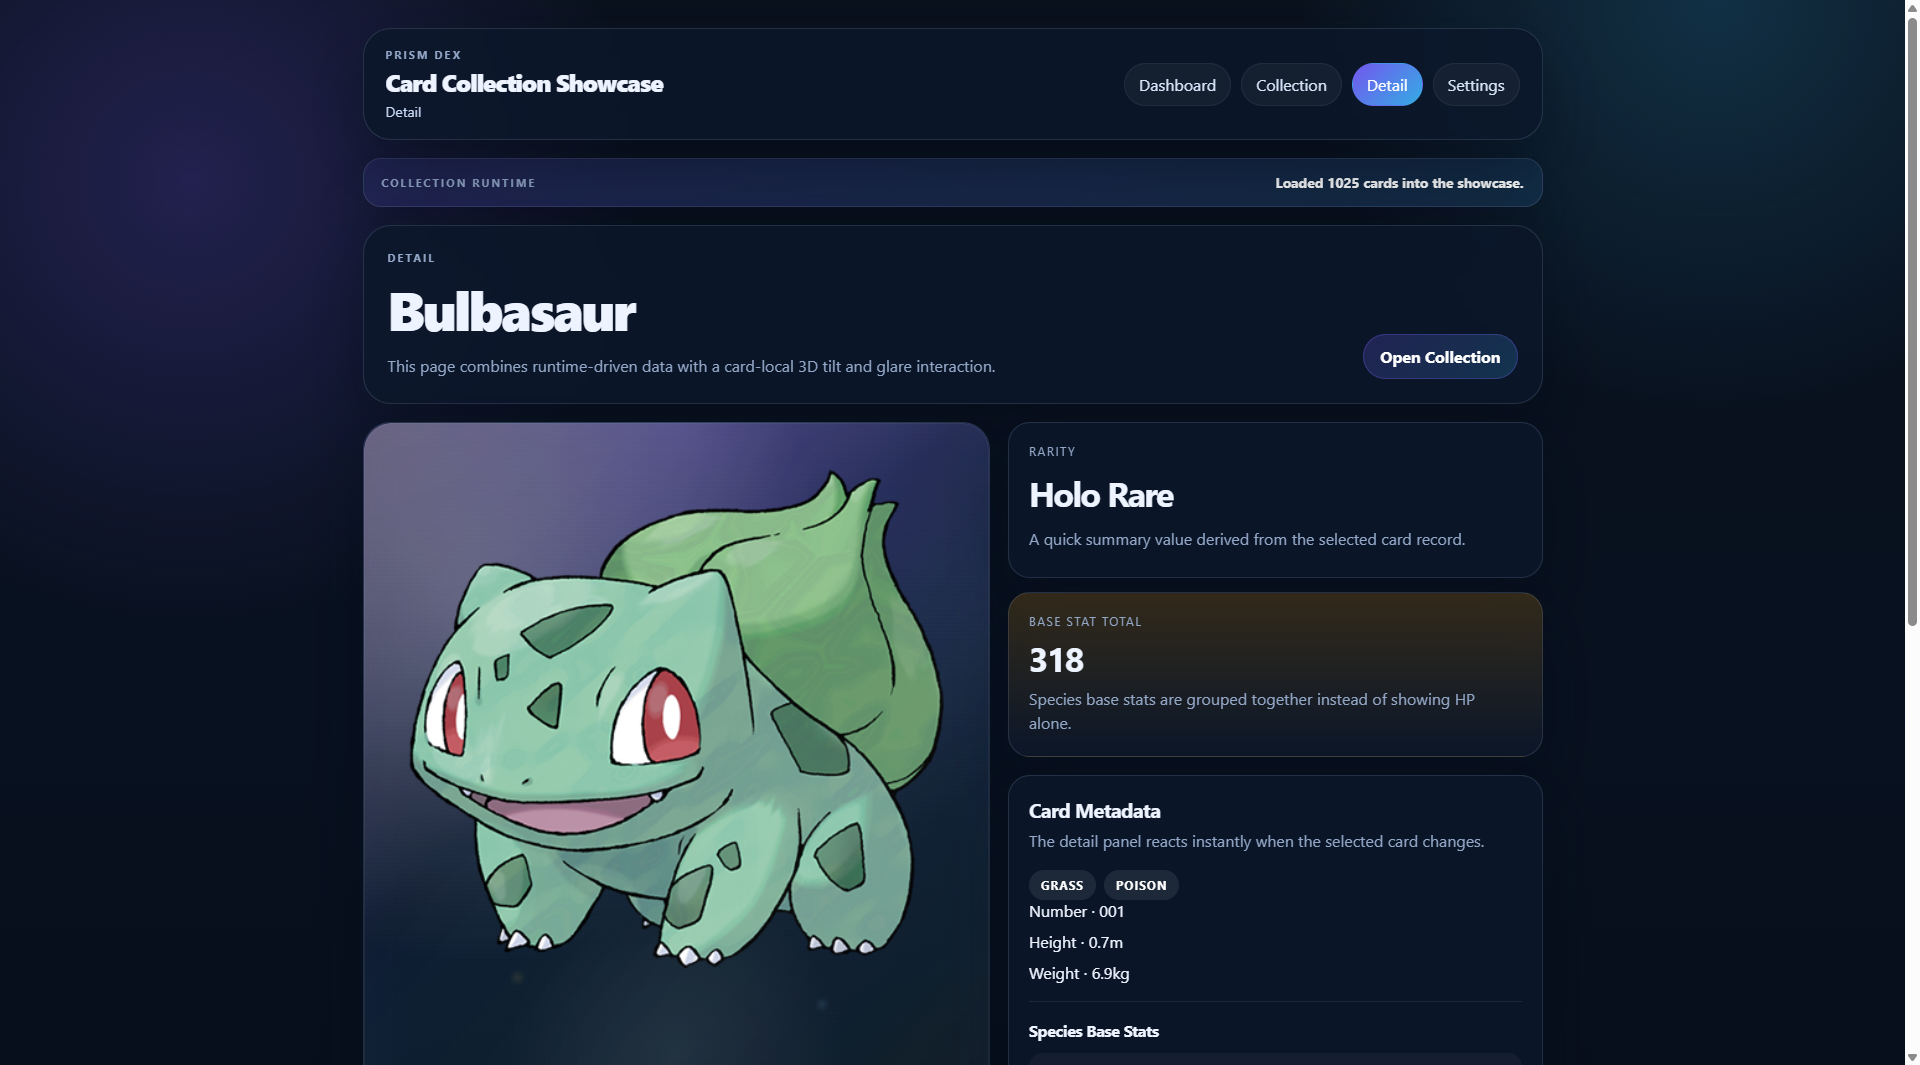
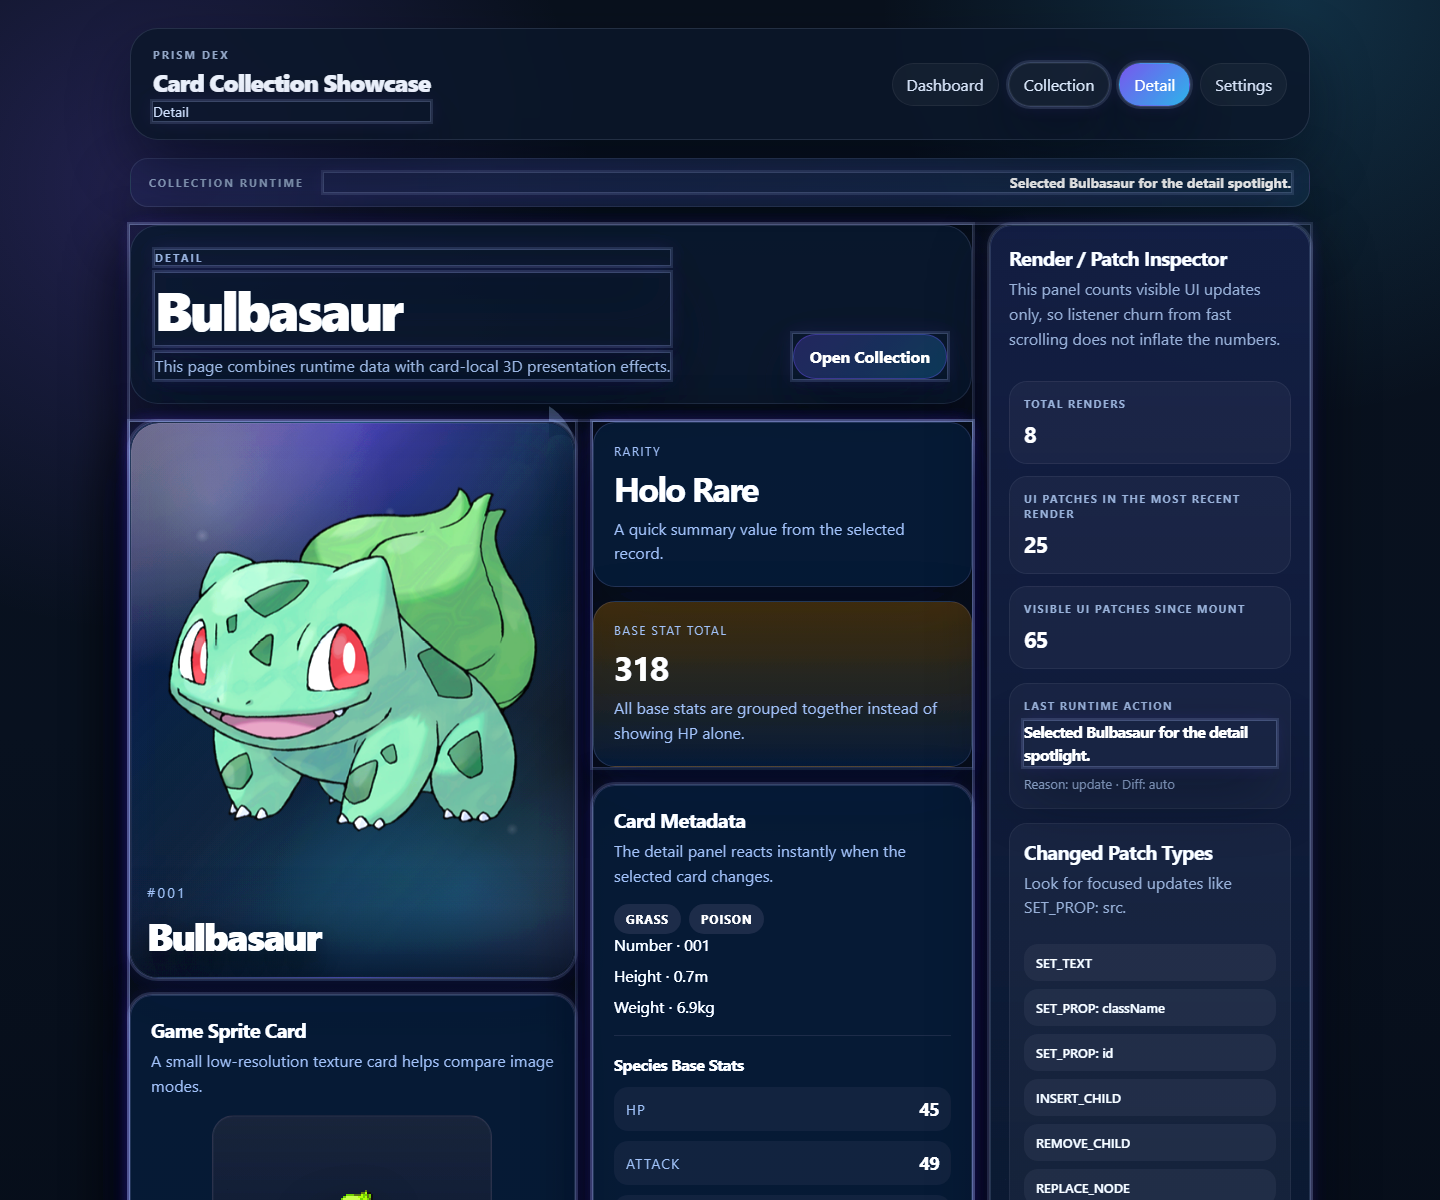
docs: refresh showcase docs and screenshots

diff --git a/README.md b/README.md
@@ -20,7 +20,7 @@ week5 과제인 `Component · State · Hooks` 구현을 위해 만든 React-like
 - 현재 시연 앱: `Dashboard / Collection / Detail / Settings`
 - 데이터 출처: `PokeAPI` + `official-artwork` 이미지
 - 정규 전국도감 범위: `#001 ~ #1025`
-- 현재 테스트 결과: `67 passed, 0 failed, 0 skipped`
+- 현재 테스트 결과: `78 passed, 0 failed, 0 skipped`
 
 ## 앱 미리보기
 
@@ -149,7 +149,12 @@ sequenceDiagram
 
 - Collection은 한 번에 전체 1025장을 그리지 않고, 가상 스크롤 방식으로 화면 근처 카드만 렌더합니다.
 - 원격 카탈로그는 먼저 `10장 preview`를 보여준 뒤 전체 전국도감 카탈로그를 백그라운드로 이어서 불러옵니다.
+- 앱 UI는 `English / 한국어 / 日本語 / 中文 / Español`을 지원하고, 저장된 설정이 없으면 브라우저 언어를 기준으로 기본 locale을 고릅니다.
+- 포켓몬 표시 이름은 로컬 이름 사전을 우선 사용하고, 사전에 없는 번호만 `pokemon-species`로 예외 보강합니다.
+- Collection의 타입 배지는 18개 타입 전체에 대해 공식 포켓몬 타입 팔레트 톤을 반영합니다.
+- Collection 가상 스크롤에서는 함수형 자식 `key` 보존과 patch 순서 보정을 통해 카드 타입 배지가 섞이지 않도록 안정화했습니다.
 - Detail은 메인 쇼케이스 카드 아래에 `Game Sprite` 비교 카드를 함께 보여줍니다.
+- Detail의 연관 포켓몬은 같은 진화트리를 먼저 보여주고, 부족한 칸은 같은 타입과 유사한 종족값 카드로 보강합니다.
 - 데스크톱에서는 `Render / Patch Inspector`로 렌더/patch를 시각화하고, 모바일에서는 화면을 비우기 위해 숨깁니다.
 
 ## 데이터와 이미지 출처
@@ -158,6 +163,7 @@ sequenceDiagram
 
 - 데이터: `PokeAPI` `https://pokeapi.co/api/v2/...`
 - 이미지: `PokeAPI sprites`의 `official-artwork` 및 기본 sprite
+- 포켓몬 다국어 표시 이름: 앱 내부 로컬 이름 사전 + `pokemon-species` 예외 fallback
 
 정규 전국도감 기준으로 `#001 ~ #1025`까지만 카탈로그에 포함합니다. 이 범위를 넘어가는 엔트리는 시연 앱에서 제외합니다.
 
@@ -210,7 +216,7 @@ sequenceDiagram
 
 현재 테스트 결과:
 
-- `67 passed, 0 failed, 0 skipped`
+- `78 passed, 0 failed, 0 skipped`
 
 ## 실행 방법
 

diff --git a/docs/demo-app-plan.md b/docs/demo-app-plan.md
@@ -755,3 +755,18 @@ useEffect(() => {
 - v3 라이브러리의 상태 관리와 렌더링 역할을 더 설득력 있게 보여줄 수 있다.
 
 따라서 이후 구현은 본 문서를 기준으로 `카드 컬렉션 쇼케이스 서비스` 형태로 진행한다.
+
+## 25. 현재 구현 반영 메모
+
+현재 시연 앱 구현은 아래 정책을 추가로 반영한다.
+
+- Collection 페이지는 전체 1025장을 한 번에 렌더하지 않고, 가상 스크롤 기반으로 현재 뷰포트 근처 카드만 렌더한다.
+- 원격 카탈로그는 처음에 10장 preview를 먼저 보여주고, 이후 전국도감 #001 ~ #1025 전체를 백그라운드로 이어서 불러온다.
+- Settings 페이지에는 언어 선택 메뉴가 있으며, 기본 locale은 저장된 설정이 없을 때 브라우저 언어를 기준으로 고른다.
+- 지원 UI 언어는 English, 한국어, 日本語, 中文, Español 이다.
+- 포켓몬 표시 이름은 앱 내부 로컬 이름 사전을 우선 사용하고, 사전에 없는 번호만 pokemon-species API로 예외 보강한다.
+- Collection 페이지의 타입 배지는 18개 타입 전체에 대해 공식 포켓몬 타입 팔레트 톤을 적용한다.
+- Collection 가상 스크롤에서는 함수형 자식 key 보존과 patch 순서 보정을 통해 카드 재사용 중 타입 배지가 잘못 섞이지 않도록 안정화한다.
+- Detail 페이지의 연관 포켓몬은 같은 진화트리를 먼저 보여주고, 부족한 칸은 같은 타입과 유사한 종족값 카드로 보강한다.
+- Detail 페이지 왼쪽 컬럼에는 메인 쇼케이스 카드 아래에 Game Sprite 비교 카드가 함께 표시된다.
+- Render / Patch Inspector 는 데스크톱 시연용 보조 패널이며, 모바일에서는 화면 공간을 위해 숨긴다.

diff --git a/learning-docs/app-showcase-guide.md b/learning-docs/app-showcase-guide.md
@@ -281,3 +281,17 @@ flowchart TD
 7. [src/tests/app.test.js](../src/tests/app.test.js)
 
 이 순서로 보면 “앱이 어떻게 시작되고, 어떤 상태를 가지며, 어떤 컴포넌트로 나뉘고, 무엇을 테스트하는지”까지 자연스럽게 연결된다.
+
+## 13. 현재 구현 반영 메모
+
+현재 앱은 초기 기획에서 더 발전한 형태로 아래 동작을 포함한다.
+
+- Collection 페이지는 가상 스크롤 캔버스를 사용해 현재 화면 근처 카드만 DOM에 올린다.
+- 원격 데이터는 처음에 10장 preview를 먼저 렌더하고, 이후 #001 ~ #1025 전체 카탈로그를 백그라운드로 이어서 채운다.
+- UI locale 과 포켓몬 표시 이름 locale 은 함께 동작하며, 지원 언어는 English, 한국어, 日本語, 中文, Español 이다.
+- 포켓몬 이름은 로컬 이름 사전을 우선 사용하고, 사전에 없는 항목만 pokemon-species 를 예외 fallback 으로 조회한다.
+- Collection 타입 배지는 18개 포켓몬 타입 전체에 대해 공식 타입 팔레트 톤을 사용한다.
+- Collection 가상 스크롤은 함수형 자식 key 보존과 patch 순서 보정으로 카드 재사용 시 타입 배지가 뒤섞이지 않도록 안정화돼 있다.
+- Detail 페이지의 연관 포켓몬은 같은 진화트리를 먼저 표시하고, 부족한 칸은 같은 타입과 유사한 종족값을 가진 카드로 채운다.
+- Detail 페이지에는 메인 카드 외에 Game Sprite 비교 카드가 함께 표시된다.
+- Render / Patch Inspector 는 데스크톱에서만 시연용으로 보이며, 모바일에서는 숨긴다.
